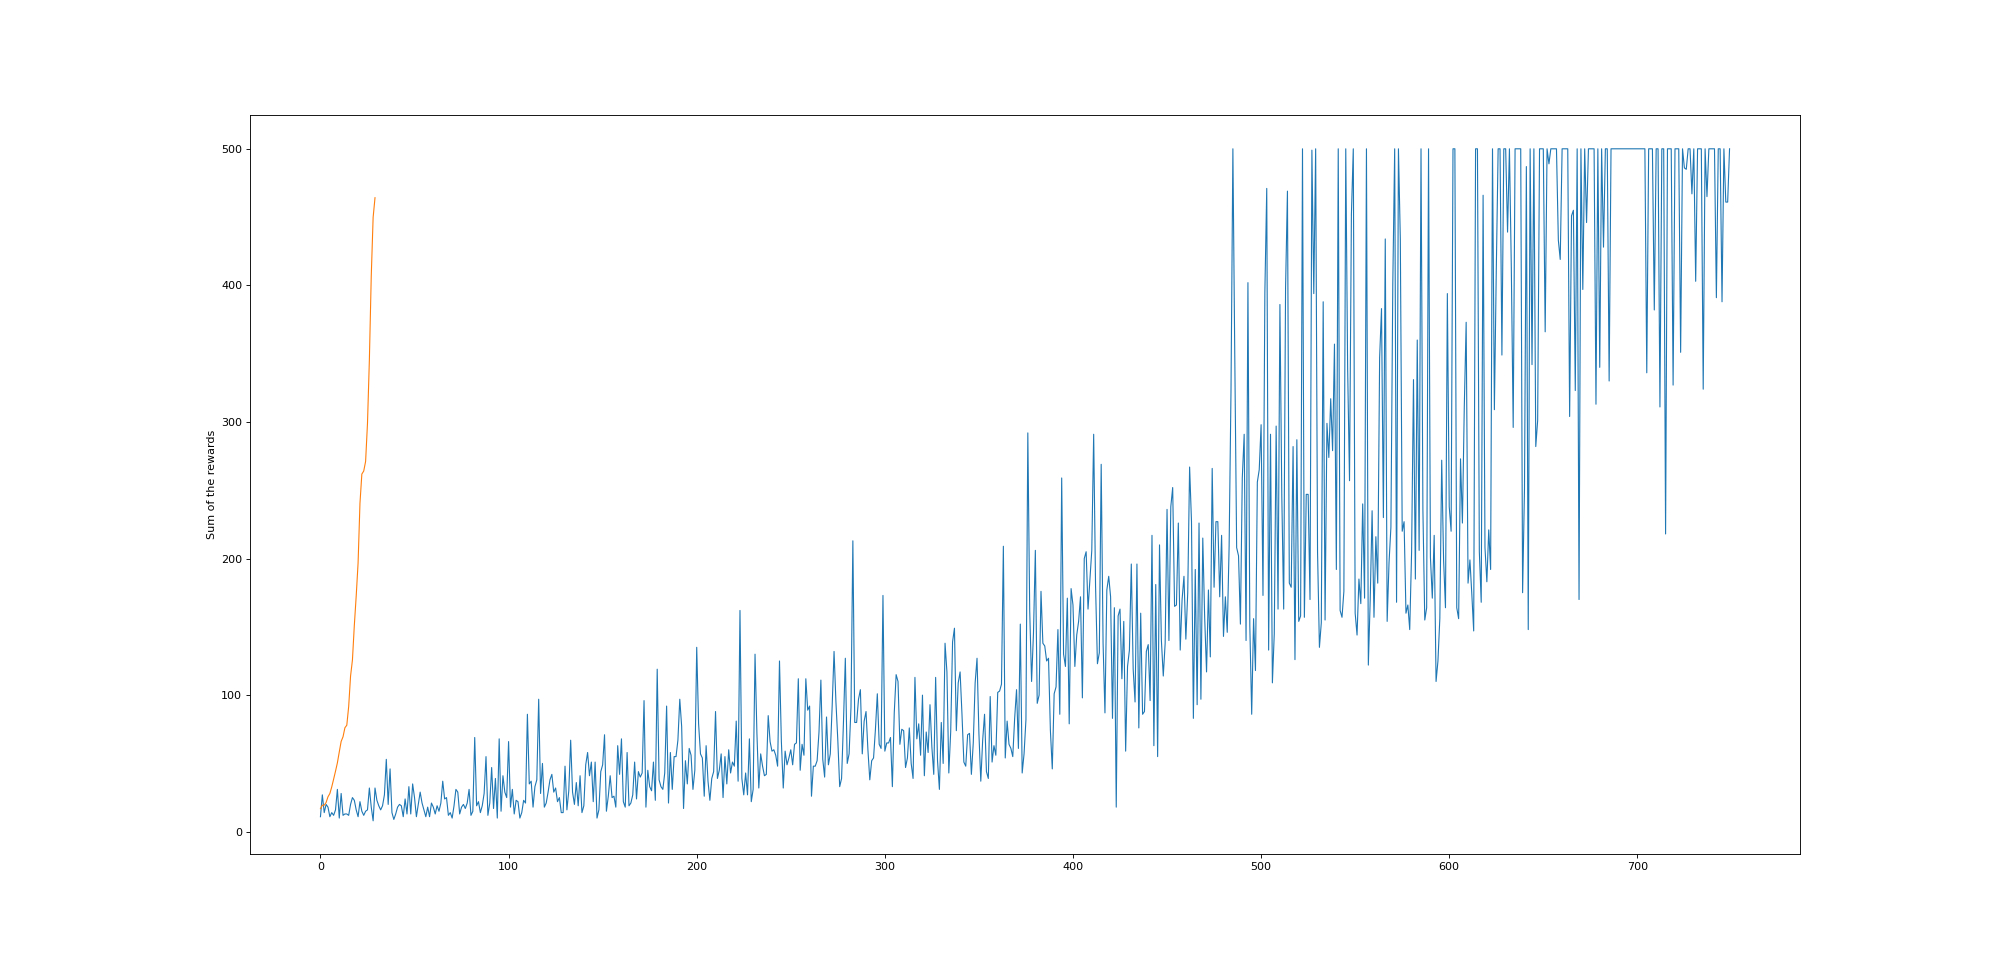
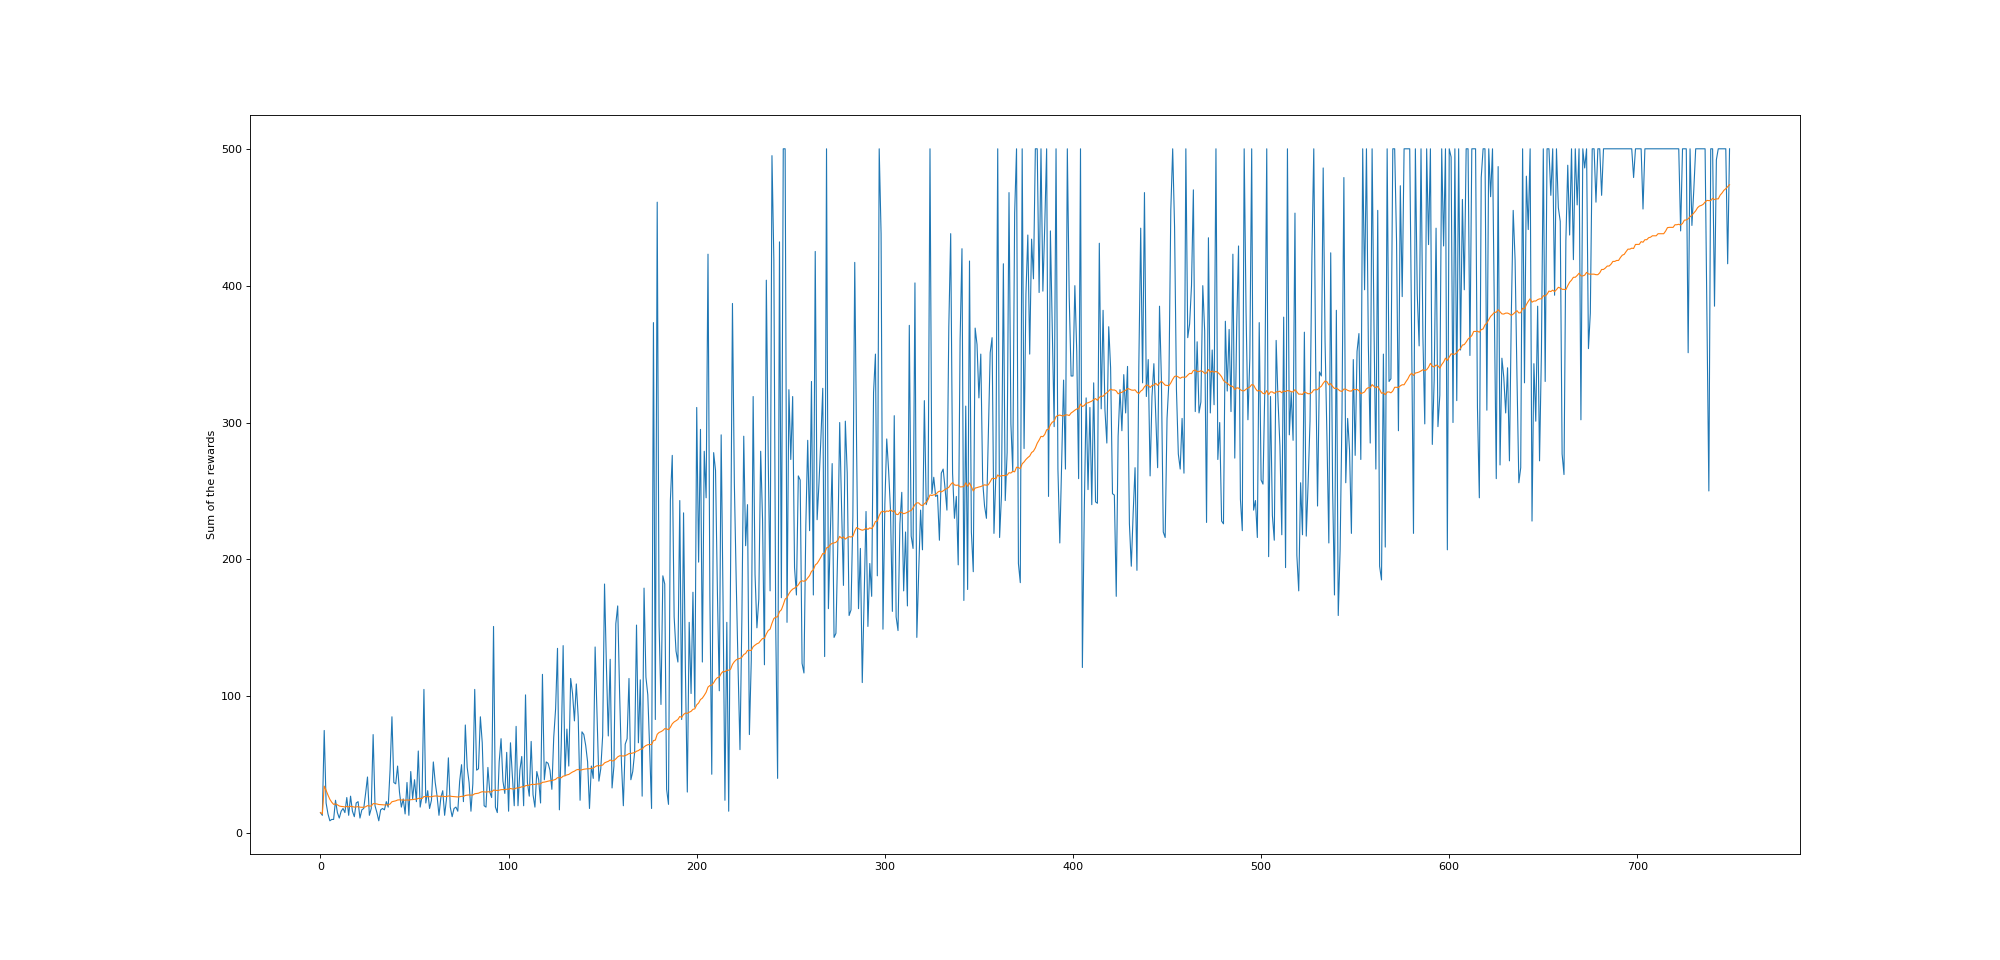
ppo agent (restructuration)

Changed region(s): [[0.155, 0.1562, 0.868, 0.875]]

diff --git a/PPO.py b/PPO.py
@@ -2,74 +2,16 @@ import argparse
 import sys
 import gym 
 import pickle
-
-from multiprocessing import Pool, Queue
-
-import threading
+import copy
+import torch
+import numpy as np
 
 import matplotlib.pyplot as plt
 
 import datetime as dt
 
 from python.NeuralNetworks import PPO_Actor, PPO_Critic
-from python.TD3Agent import *
-from python.DDQNAgent import *
 from python.hyperParams import PPOHyperParams, module
-
-from test import test
-
-def launch_agent(env, hyperParams, actor, critic, testing):
-    hyperParams = hyperParams
-
-    batch_rewards = []
-    batch_advantages = []
-    batch_states = []
-    batch_values = []
-    batch_actions = []
-    batch_done = []
-    total_rewards = []
-
-    actor = actor
-    critic = critic
-
-    for y in range(hyperParams.NUM_EP_ENV):
-        ob_prec = env.reset()
-        states = []
-        rewards = []
-        actions = []
-        values = []
-        list_done = []
-        done = False
-        step=1
-        while(not done and step<hyperParams.MAX_STEPS):
-            if(testing):
-                env.render()
-            # Get actions and convert to numpy array
-            action_probs = actor(torch.tensor(ob_prec)).detach().numpy()
-            val = critic(torch.tensor(ob_prec)).detach().numpy()
-            action = np.random.choice(action_space, p=action_probs)
-            ob, r, done, _ = env.step(action)
-
-            states.append(ob_prec)
-            values.extend(val)
-            rewards.append(r)
-            actions.append(action)
-            list_done.append(done)  
-
-            ob_prec = ob
-            step+=1                
-
-        batch_rewards.extend(discount_rewards(rewards, hyperParams.GAMMA))
-        gaes = gae(np.expand_dims(np.array(rewards), 0), np.expand_dims(np.array(values), 0), np.expand_dims(np.array([not elem for elem in list_done]), 0), hyperParams.GAMMA, hyperParams.LAMBDA)
-        batch_advantages.extend(gaes[0])
-        batch_states.extend(states)
-        batch_values.extend(values)
-        batch_actions.extend(actions)
-        batch_done.extend(list_done)
-        total_rewards.append(sum(rewards))
-
-    return batch_rewards, batch_advantages, batch_states, batch_values, batch_actions, batch_done, total_rewards
-
 
 def discount_rewards(rewards, gamma):
     r = np.array([gamma**i * rewards[i] for i in range(len(rewards))])
@@ -105,6 +47,138 @@ def gae(rewards, values, episode_ends, gamma, lam):
     return advantages
 
 
+class PPOAgent():
+
+    def __init__(self, hyperParams, ob_space, ac_space, actor_to_load, critic_to_load):
+
+        self.hyperParams = hyperParams
+        self.old_actor = PPO_Actor(env.observation_space.shape[0], env.action_space.n, hyperParams)
+        self.critic = PPO_Critic(env.observation_space.shape[0], hyperParams)
+
+        if(actor_to_load != None and critic_to_load != None):
+            self.old_actor.load_state_dict(torch.load(actor_to_load))
+            self.old_actor.eval()
+            self.critic.load_state_dict(torch.load(critic_to_load))
+            self.critic.eval()
+        else:
+            self.actor = copy.deepcopy(self.old_actor)   
+            # Define optimizer
+            self.optimizer_actor = torch.optim.Adam(self.actor.parameters(), lr=self.hyperParams.LR)
+            self.optimizer_critic = torch.optim.Adam(self.critic.parameters(), lr=self.hyperParams.LR)
+            self.mse = torch.nn.MSELoss()
+
+        self.avg_rewards = []
+        self.total_rewards = []
+
+        self.ep = 0
+
+        self.reset_batches()
+
+
+    def reset_batches(self):
+        self.batch_rewards = []
+        self.batch_advantages = []
+        self.batch_states = []
+        self.batch_values = []
+        self.batch_actions = []
+        self.batch_done = []
+
+
+    def learn(self):
+
+        for k in range(self.hyperParams.K):
+            self.optimizer_actor.zero_grad()
+            self.optimizer_critic.zero_grad()
+
+            state_tensor = torch.tensor(self.batch_states)
+            advantages_tensor = torch.tensor(self.batch_advantages)
+
+            values_tensor = torch.tensor(self.batch_values)
+            rewards_tensor = torch.tensor(self.batch_rewards, requires_grad = True)
+            rewards_tensor = rewards_tensor.float()
+            # Actions are used as indices, must be 
+            # LongTensor
+            action_tensor = torch.LongTensor(self.batch_actions)
+            action_tensor = action_tensor.long()
+
+            
+            # Calculate actor loss
+            probs = self.actor(state_tensor)
+            selected_probs = torch.index_select(probs, 1, action_tensor).diag()
+
+            old_probs = self.old_actor(state_tensor)
+            selected_old_probs = torch.index_select(old_probs, 1, action_tensor).diag()
+
+            loss = selected_probs/selected_old_probs*advantages_tensor
+            clipped_loss = torch.clamp(selected_probs/selected_old_probs, 1-self.hyperParams.EPSILON, 1+self.hyperParams.EPSILON)*advantages_tensor
+
+            loss_actor = -torch.min(loss, clipped_loss).mean()
+
+
+
+            # Calculate gradients
+            loss_actor.backward()
+            # Apply gradients
+            self.optimizer_actor.step()
+
+            # Calculate critic loss
+            loss_critic = self.mse(values_tensor, rewards_tensor)  
+            # Calculate gradients
+            loss_critic.backward()
+            # Apply gradients
+            self.optimizer_critic.step()
+
+        self.old_actor = copy.deepcopy(self.actor)
+
+
+    def act(self, env, render=False):
+
+        for y in range(self.hyperParams.NUM_EP_ENV):
+            ob_prec = env.reset()
+            states = []
+            rewards = []
+            actions = []
+            values = []
+            list_done = []
+            done = False
+            step=1
+            while(not done and step<self.hyperParams.MAX_STEPS):
+                if(render):
+                    env.render()
+                # Get actions and convert to numpy array
+                action_probs = self.old_actor(torch.tensor(ob_prec)).detach().numpy()
+                val = self.critic(torch.tensor(ob_prec)).detach().numpy()
+                action = np.random.choice(np.arange(env.action_space.n), p=action_probs)
+                ob, r, done, _ = env.step(action)
+
+                states.append(ob_prec)
+                values.extend(val)
+                rewards.append(r)
+                actions.append(action)
+                list_done.append(done)  
+
+                ob_prec = ob
+                step+=1                
+
+            self.batch_rewards.extend(discount_rewards(rewards, hyperParams.GAMMA))
+            gaes = gae(np.expand_dims(np.array(rewards), 0), np.expand_dims(np.array(values), 0), np.expand_dims(np.array([not elem for elem in list_done]), 0), hyperParams.GAMMA, hyperParams.LAMBDA)
+            self.batch_advantages.extend(gaes[0])
+            self.batch_states.extend(states)
+            self.batch_values.extend(values)
+            self.batch_actions.extend(actions)
+            self.batch_done.extend(list_done)
+
+            self.total_rewards.append(sum(rewards))
+            ar = np.mean(self.total_rewards[-100:])
+            self.avg_rewards.append(ar)
+
+            self.ep += 1
+
+            if(not render):
+                print("\rEp: {} Average of last 100: {:.2f}".format(self.ep, ar), end="")
+
+
+
 
 if __name__ == '__main__':
     env = gym.make(module) #gym env
@@ -114,128 +188,57 @@ if __name__ == '__main__':
 
     hyperParams = PPOHyperParams()
 
+    actor_to_load=None
+    critic_to_load=None
+
     if(len(sys.argv) > 1):
         if(sys.argv[1] == "--test"):
             testing = True
             with open('./trained_networks/'+module+'_PPO.hp', 'rb') as infile:
                 hyperParams = pickle.load(infile)
 
-    old_actor = PPO_Actor(env.observation_space.shape[0], env.action_space.n, hyperParams)
-    critic = PPO_Critic(env.observation_space.shape[0], hyperParams)
+            actor_to_load='./trained_networks/'+module+'_ac_PPO.n'
+            critic_to_load='./trained_networks/'+module+'_cr_PPO.n'
 
-    if(testing):
-        old_actor.load_state_dict(torch.load('./trained_networks/'+module+'_ac_PPO.n'))
-        old_actor.eval()
-        critic.load_state_dict(torch.load('./trained_networks/'+module+'_cr_PPO.n'))
-        critic.eval()
-        hyperParams.EPISODE_COUNT=1
-        hyperParams.NUM_AGENTS=1
-        hyperParams.K=0
-        hyperParams.NUM_EP_ENV=1
-    else:
-        actor = copy.deepcopy(old_actor)   
-        # Define optimizer
-        optimizer_actor = torch.optim.Adam(actor.parameters(), lr=hyperParams.LR)
-        optimizer_critic = torch.optim.Adam(critic.parameters(), lr=hyperParams.LR)
+            hyperParams.EPISODE_COUNT=1
+            hyperParams.NUM_AGENTS=1
+            hyperParams.K=0
+            hyperParams.NUM_EP_ENV=1
 
-    mse = torch.nn.MSELoss()
-    
-    action_space = np.arange(env.action_space.n)
-
-    total_rewards = []
-    avg_rewards = []
+    ppo_agent = PPOAgent(hyperParams, env.observation_space.shape[0], env.action_space.n, actor_to_load, critic_to_load)
 
     for ep in range(hyperParams.EPISODE_COUNT):
         # Set up lists to hold results
-        batch_advantages = []
-        batch_rewards = []
-        batch_actions = []
-        batch_states = []
-        batch_done = []
-        batch_values = []
+        ppo_agent.reset_batches()
 
-        #pool = Pool()
-        work = []
-        results = []
+
         for a in range(hyperParams.NUM_AGENTS):
             if(len(list_envs) < hyperParams.NUM_AGENTS):
                 list_envs.append(gym.make(module))
-            results.append(launch_agent(list_envs[a], hyperParams, copy.deepcopy(old_actor), copy.deepcopy(critic), testing))
 
-        for i in range(hyperParams.NUM_AGENTS):
-            ret = results[i]
-            batch_rewards.extend(ret[0])
-            batch_advantages.extend(ret[1])
-            batch_states.extend(ret[2])
-            batch_values.extend(ret[3])
-            batch_actions.extend(ret[4])
-            batch_done.extend(ret[5])
-            total_rewards.extend(ret[6])
+            ppo_agent.act(env, render=testing)
 
-        for k in range(hyperParams.K):
-            optimizer_actor.zero_grad()
-            optimizer_critic.zero_grad()
-
-            state_tensor = torch.tensor(batch_states)
-            advantages_tensor = torch.tensor(batch_advantages)
-
-            values_tensor = torch.tensor(batch_values)
-            rewards_tensor = torch.tensor(batch_rewards, requires_grad = True)
-            rewards_tensor = rewards_tensor.float()
-            # Actions are used as indices, must be 
-            # LongTensor
-            action_tensor = torch.LongTensor(batch_actions)
-            action_tensor = action_tensor.long()
-
-            
-            # Calculate actor loss
-            probs = actor(state_tensor)
-            selected_probs = torch.index_select(probs, 1, action_tensor).diag()
-
-            old_probs = old_actor(state_tensor)
-            selected_old_probs = torch.index_select(old_probs, 1, action_tensor).diag()
-
-            loss = selected_probs/selected_old_probs*advantages_tensor
-            clipped_loss = torch.clamp(selected_probs/selected_old_probs, 1-hyperParams.EPSILON, 1+hyperParams.EPSILON)*advantages_tensor
-
-            loss_actor = -torch.min(loss, clipped_loss).mean()
-
-
-
-            # Calculate gradients
-            loss_actor.backward()
-            # Apply gradients
-            optimizer_actor.step()
-
-            # Calculate critic loss
-            loss_critic = mse(values_tensor, rewards_tensor)  
-            # Calculate gradients
-            loss_critic.backward()
-            # Apply gradients
-            optimizer_critic.step()
-
-        
         if(not testing):
-            old_actor = copy.deepcopy(actor)
-            ar = np.mean(total_rewards[-100:])
-            avg_rewards.append(ar)
-        # Print running average
-            print("\rEp: {} Average of last 100: {:.2f}".format(ep + 1, ar), end="")
-    print()
+            ppo_agent.learn()
+            
+    if(not testing):
+        print()
+        
+    env.close()
 
     if(testing):
-        print("Sum of rewards:", total_rewards[-1])
+        print("Sum of rewards:", ppo_agent.total_rewards[-1])
     else:
         #plot the sums of rewards and the noise (noise shouldnt be in the same graph but for now it's good)
         plt.figure(figsize=(25, 12), dpi=80)
-        plt.plot(total_rewards, linewidth=1)
-        plt.plot(avg_rewards, linewidth=1)
+        plt.plot(ppo_agent.total_rewards, linewidth=1)
+        plt.plot(ppo_agent.avg_rewards, linewidth=1)
         plt.ylabel('Sum of the rewards')       
         plt.savefig("./images/"+module+"_PPO.png")
         
         #save the neural networks of the policy
-        torch.save(old_actor.state_dict(), './trained_networks/'+module+'_ac_PPO.n')
-        torch.save(critic.state_dict(), './trained_networks/'+module+'_cr_PPO.n')
+        torch.save(ppo_agent.old_actor.state_dict(), './trained_networks/'+module+'_ac_PPO.n')
+        torch.save(ppo_agent.critic.state_dict(), './trained_networks/'+module+'_cr_PPO.n')
 
         #save the hyper parameters (for the tests and just in case)
         with open('./trained_networks/'+module+'_PPO.hp', 'wb') as outfile:

diff --git a/python/hyperParams.py b/python/hyperParams.py
@@ -63,7 +63,6 @@ class REINFORCEHyperParams :
 class PPOHyperParams :
     def __init__(self):
         self.LR = 0.01
-        self.BATCH_SIZE = 10
         self.GAMMA = 0.99
         self.LAMBDA = 0.99
         self.EPSILON = 0.2
@@ -71,7 +70,7 @@ class PPOHyperParams :
         self.EPISODE_COUNT = 30
         self.NUM_AGENTS = 5
         self.NUM_EP_ENV = 5
-        self.K = 3
+        self.K = 4
 
         self.HIDDEN_SIZE = 32
         self.MAX_STEPS = 1000
